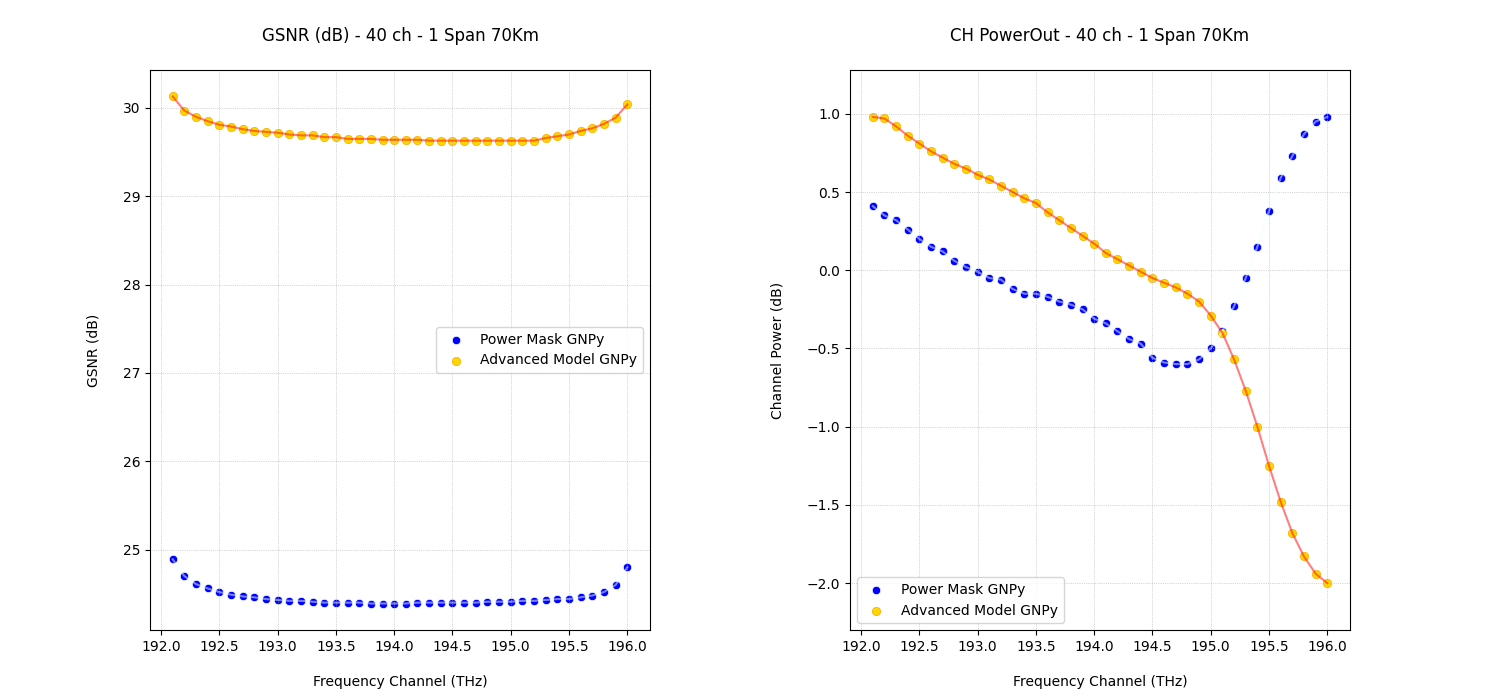
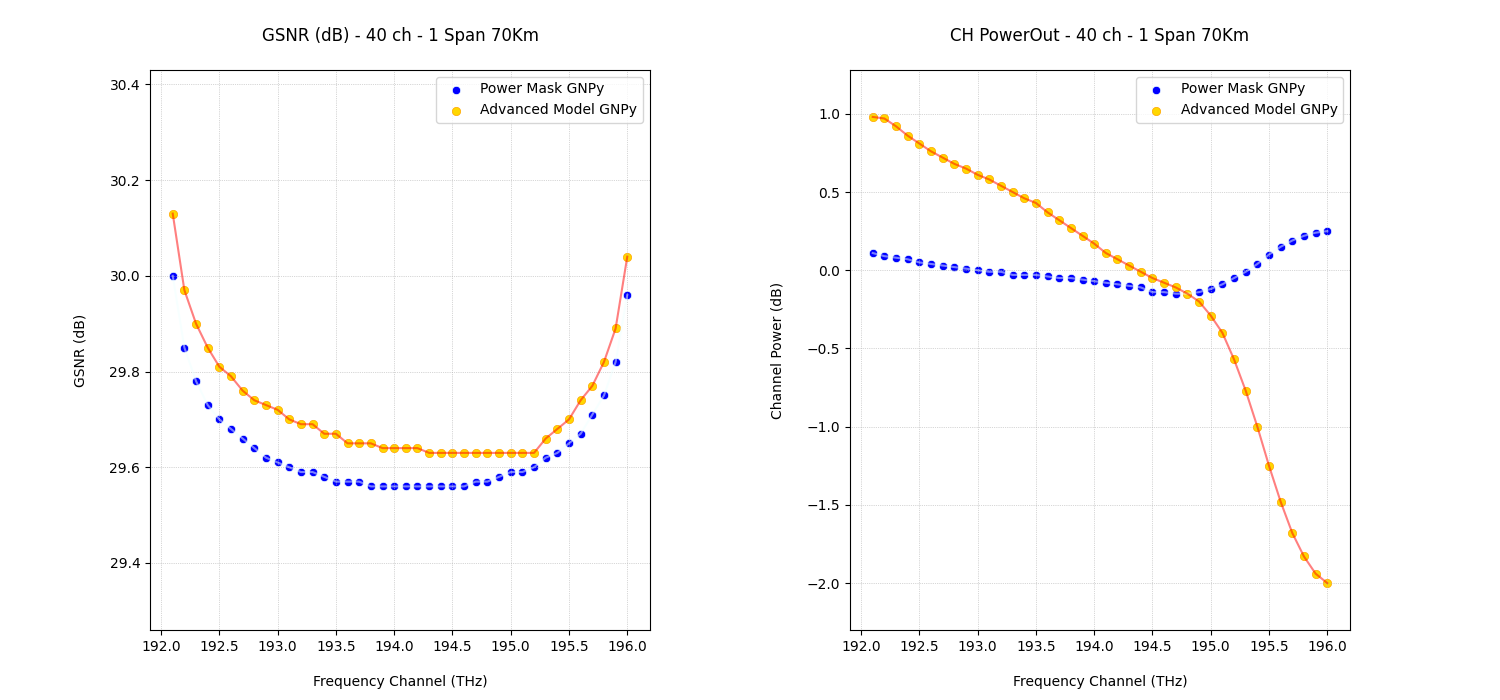
correcao_graficos_c_4_spans

diff --git a/plotagem.py b/plotagem.py
@@ -69,15 +69,17 @@ dic = {
             '1_span_90_80': ['1_spans_90.0 Km_new_model_example_80ch.csv', '1_spans_90.0 Km_EDFA_PADTEC_AdvancedModel_80ch.csv'],
             '1_span_110_40': ['1_spans_110.0 Km_new_model_example_40ch.csv', '1_spans_110.0 Km_EDFA_PADTEC_AdvancedModel_40ch.csv'],
             '1_span_110_80': ['1_spans_110.0 Km_new_model_example_80ch.csv', '1_spans_110.0 Km_EDFA_PADTEC_AdvancedModel_80ch.csv'],
-            '4_span_70_40': ['1_spans_70.0 Km_new_model_example_40ch.csv', '4_spans_70.0 Km_EDFA_PADTEC_AdvancedModel_40ch.csv'],
-            '4_span_70_80': ['1_spans_70.0 Km_new_model_example_80ch.csv', '4_spans_70.0 Km_EDFA_PADTEC_AdvancedModel_80ch.csv'],
-            '4_span_90_40': ['1_spans_90.0 Km_new_model_example_40ch.csv', '4_spans_90.0 Km_EDFA_PADTEC_AdvancedModel_40ch.csv'],
-            '4_span_90_80': ['1_spans_90.0 Km_new_model_example_80ch.csv', '4_spans_90.0 Km_EDFA_PADTEC_AdvancedModel_80ch.csv'],
-            '4_span_110_40': ['1_spans_110.0 Km_new_model_example_40ch.csv', '4_spans_110.0 Km_EDFA_PADTEC_AdvancedModel_40ch.csv'],
-            '4_span_110_80': ['1_spans_110.0 Km_new_model_example_80ch.csv', '4_spans_110.0 Km_EDFA_PADTEC_AdvancedModel_80ch.csv']
+            '4_span_70_40': ['4_spans_70.0 Km_new_model_example_40ch.csv', '4_spans_70.0 Km_EDFA_PADTEC_AdvancedModel_40ch.csv'],
+            '4_span_70_80': ['4_spans_70.0 Km_new_model_example_80ch.csv', '4_spans_70.0 Km_EDFA_PADTEC_AdvancedModel_80ch.csv'],
+            '4_span_90_40': ['4_spans_90.0 Km_new_model_example_40ch.csv', '4_spans_90.0 Km_EDFA_PADTEC_AdvancedModel_40ch.csv'],
+            '4_span_90_80': ['4_spans_90.0 Km_new_model_example_80ch.csv', '4_spans_90.0 Km_EDFA_PADTEC_AdvancedModel_80ch.csv'],
+            '4_span_110_40': ['4_spans_110.0 Km_new_model_example_40ch.csv', '4_spans_110.0 Km_EDFA_PADTEC_AdvancedModel_40ch.csv'],
+            '4_span_110_80': ['4_spans_110.0 Km_new_model_example_80ch.csv', '4_spans_110.0 Km_EDFA_PADTEC_AdvancedModel_80ch.csv']
         }
 
 for chave, valor in dic.items():
     print(f"Chave = {chave} - Valor 1 = {valor[0]} - Valor 2 = {valor[1]}")
-    print("Gerando grafico...\n")
+    print(f"Gerando grafico...{chave}\n")
     passar_parametros(chave, valor[0], valor[1])
+
+#passar_parametros(dic[''], valor1, valor2)

diff --git a/grafico.py b/grafico.py
@@ -11,6 +11,8 @@ def gerar_graficos(CHPout_AM, CHPout_PM, GSNR_AM, GSNR_PM, n_span, n_km, n_canai
     menor_valorPout = min(min(CHPout_AM), min(CHPout_PM)) - espacamento
     maior_valorPout = max(max(CHPout_AM), max(CHPout_PM)) + espacamento
 
+    print(n_span)
+
     if n_km == '1':
         n_km = '11'
 
@@ -61,3 +63,4 @@ def gerar_graficos(CHPout_AM, CHPout_PM, GSNR_AM, GSNR_PM, n_span, n_km, n_canai
     print(directory_path)
     nome = 'Grafico_' + n_canais + '0ch_' + n_span + '_Span_' + n_km + '0Km'
     Image = plt.savefig(f'{directory_path}/{nome}.png')
+    #print(directory_path + Image)
